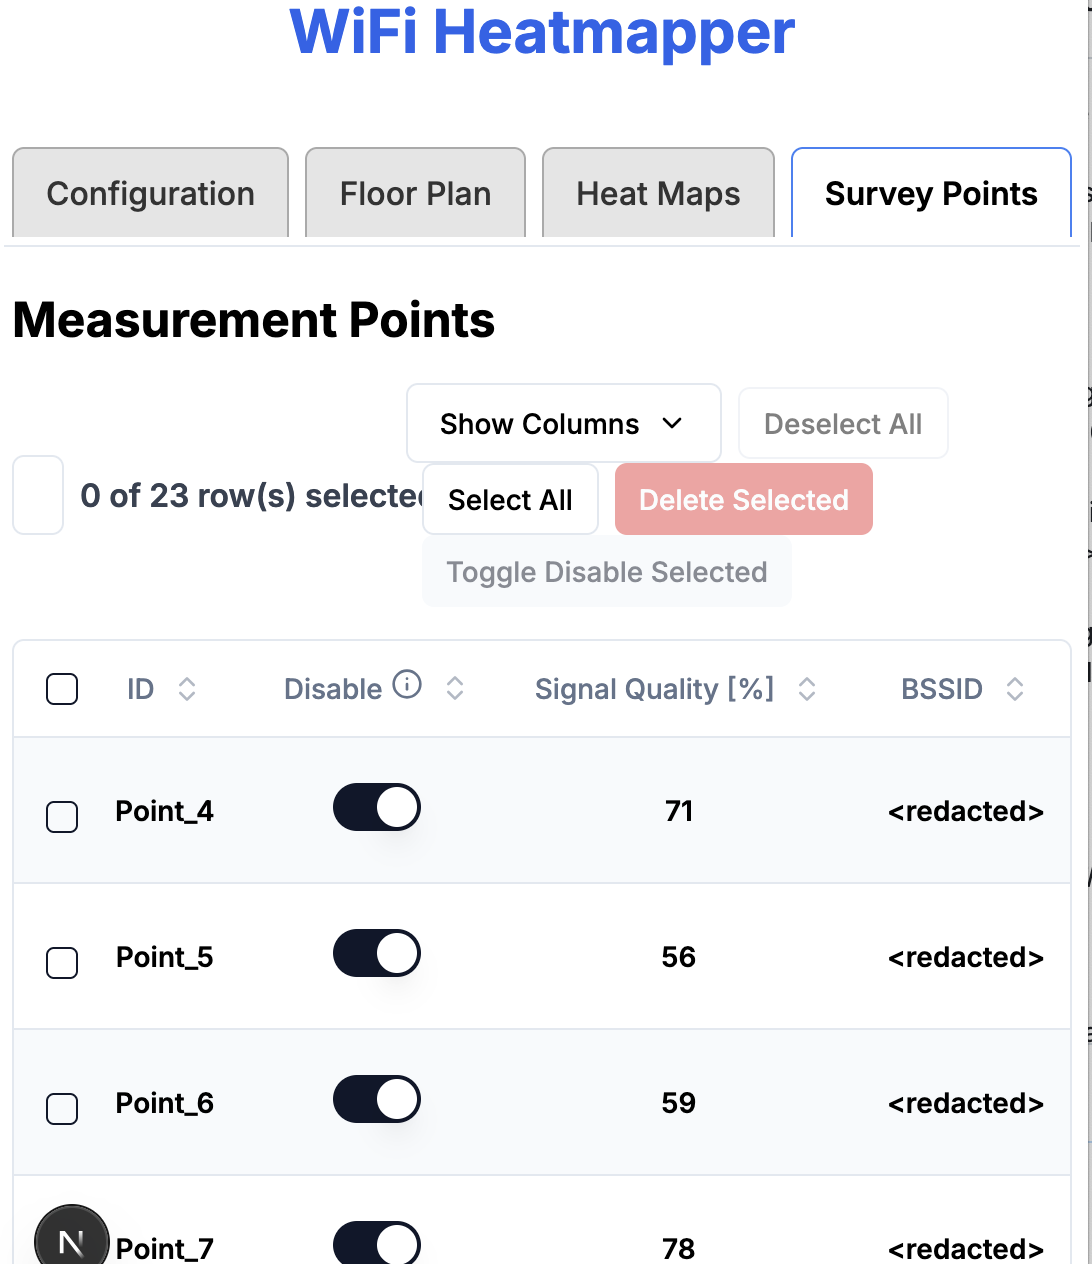
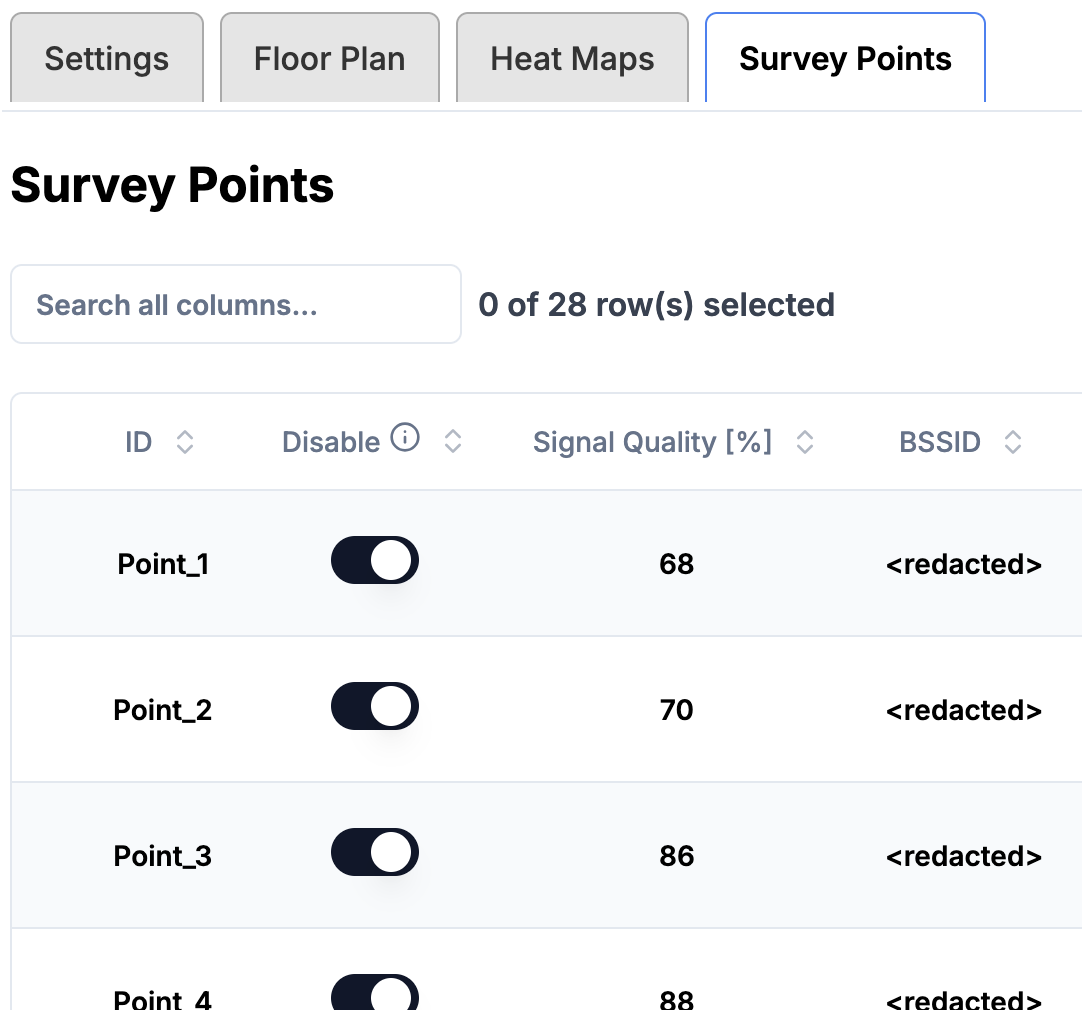
Final editorial pass over the entire project

diff --git a/src/components/PointsTable.tsx b/src/components/PointsTable.tsx
@@ -298,7 +298,7 @@ const SurveyPointsTable: React.FC<SurveyPointsTableProps> = ({
 
   return (
     <div className="space-y-4">
-      <div className="text-2xl font-bold mt-4">Measurement Points</div>
+      <div className="text-2xl font-bold mt-4">Survey Points</div>
       <div className="flex justify-between items-center">
         <div className="flex items-center space-x-2">
           <Input

diff --git a/src/components/TabPanel.tsx b/src/components/TabPanel.tsx
@@ -21,7 +21,7 @@ export default function TabPanel() {
             value="tab1"
             className="px-4 py-2 border-b-2 border-transparent hover:border-gray-400 focus:border-blue-500"
           >
-            Configuration
+            Settings
           </Tabs.Trigger>
           <Tabs.Trigger
             value="tab2"

diff --git a/README.md b/README.md
@@ -3,8 +3,11 @@
 **wifi-heatmapper** displays heat maps of both
 Wi-Fi signal strength and
 the results of network throughput (speed) tests.
-This is useful for optimizing access point placement,
-or knowing where to add new mesh devices or extenders.
+Use it to find out if your wi-fi signal is actually weak,
+or if there is something else wrong with your network.
+If there is a signal-strength problem, you can use the
+heat map to optimize access point placement,
+or to add new mesh devices or extenders.
 
 **wifi-heatmapper** runs on Windows, macOS, and Linux.
 
@@ -14,7 +17,16 @@ to show areas of strong signal
 Signal levels fade to turquoise, then to blue
 (lowest acceptable).
 Yellow and red colors indicate poor signal levels.
-The screen shot below shows a sample heat map:
+
+The screen shot below is a sample heat map.
+It was created by measuring about two dozen points around the house,
+especially locations where people actually use a computer. 
+The heat map shows that the signal levels throughout the house
+are acceptable &mdash; mostly green, turquoise, and blue.
+The areas of yellow or red are at the edges, or on a stairway
+where no measurement was taken (the large yellow area in the middle).
+(Don't have a floor plan for your home?
+See the [FAQ](docs/FAQ.md).)
 
 ![heatmap example](docs/images/HeatmapPane.png)
 
@@ -25,54 +37,59 @@ There are more details about the operation of **wifi-heatmapper** at:
 * [FAQ](docs/FAQ.md)
 * [To-Do](docs/To-Do.md)
 
-## Usage
+## Overview of using wifi-heatmapper
 
-**Install wifi-heatmapper** on a laptop computer since you use it
-to measure signal strength at various locations.
+1. **Install wifi-heatmapper.**
+You'll want it installed on a laptop so you can move it around
+and measure signal strength at various locations.
 See [Installing and Running](#installing-and-running)
 below for details.
 Then browse to
 [http://localhost:3000](http://localhost:3000).
 
-**Settings pane:** To get started, use the default floor plan
+2. **Settings pane:** To get started, use the default floor plan
 (EmptyFloorPlan.png)
 and provide a sudo password for macOS or Linux.
 Leave the other settings at their default.
 No throughput tests are made when the iperf3 server is set
 to "localhost".
 
-**Switch to the Floor Plan tab.**
-You'll see the built-in Empty Floor Plan or your imported image.
+3. **Switch to the Floor Plan tab.**
+You'll see the built-in Empty Floor Plan or your uploaded image.
 
-**Start a measurement** by clicking the floor plan at a point
-that reflects the laptop's location.
+4. **Start a measurement** by clicking the floor plan at a point
+that reflects your laptop's location.
 **wifi-heatmapper** measures the WiFi signal strength and
 (optionally) the throughput at that point.
-The floor plan displays a dot colored by its signal stength.
+When the measurement is complete, the floor plan displays
+a dot colored by its signal stength.
 Click the dot to get more information.
 
-**Move to other locations** and make further measuements.
+5. **Move to other locations** and make further measuements.
 Make at least one measurement per room.
 Multiple measurements per room provide more fine-grained data.
 
-**Click the Heatmap tab** to see the resulting heat map.
+6. **Click the Heatmap tab** to see the resulting heat map.
 Areas with strong signal will be green,
 lower signal levels will follow the
-Green -> Tuquoise -> Blue -> Yellow - Red transition.
+Green -> Tuquoise -> Blue -> Yellow -> Red transition.
 Adjust the **Radius** slider until the spots grow together.
 Go back to the Floor Plan tab to make more measuements if needed.
 
-**Click the Survey Points tab** to see all the survey points,
+7. **Click the Survey Points tab** to see all the survey points,
 with details of the measurements taken.
 Remove errant points using this tab.
 
 ## Installing and Running
 
-Install **wifi-heatmapper** on a laptop device
-so you can move from place to place.
+**wifi-heatmapper** requires a recent Javascript environment
+(tested on Node 23).
+Install it on a laptop device so you can move from place to place.
 To install the software:
 
-1. Pull the repo, install the `npm` dependencies, and run the project:
+1. Pull the repo, install the `npm` dependencies,
+   and run the project.
+   To do this, run these commands from a terminal:
 
    ```bash
    git clone https://github.com/hnykda/wifi-heatmapper.git
@@ -88,22 +105,25 @@ To install the software:
 _Note: Installing the `iperf3` client and server are optional.
 This makes the initial installation straightforward:
 simply perform the two steps above.
-But it misses out on the ability to make throughput tests._
+But you miss out on the ability to make throughput tests._
 
 To take advantage of `iperf3` throughput (speed) tests:
 
 1. Install `iperf3` on your laptop.
+   Follow instructions on the internet for your OS.
+   _Note: there are other speed tests with a name like `iperf...`
+   They are similar, but incompatible.
+   Be sure to install `iperf3`_
 2. Install `iperf3` on another computer.
-   We call this the "iperf3 server".
+   This will be the "iperf3 server".
    This could be a desktop or another laptop,
-   or even a Raspberry Pi 4 or 5 on the local network.
+   or even a Raspberry Pi 4 or 5.
 3. Start the "iperf3 server" on the other computer with
    `iperf3 -s`
-4. Optional checks: Run these on the laptop:
+4. Optional checks: Run these tests on the laptop:
    * Check the local iperf3 binary with `iperf3 --version`
-   * Check the iperf3 server with `iperf3 -c address-of-iperf3-server`
-
-
+   * Check the connection to the iperf3 server
+      with `iperf3 -c address-of-iperf3-server`
 
 ## Usage with Docker
 
@@ -134,16 +154,17 @@ use `-v` options if you want to save db + floorplanpicture to the _datas_ folder
 ## History
 
 This project is a WiFi heatmapper solution for macOS/Windows/Linux, inspired by [python-wifi-survey-heatmap](https://github.com/jantman/python-wifi-survey-heatmap).
-@hnykda wanted to create a heatmap of my WiFi coverage, but the original project didn't work because he is running on Mac.
-He also wanted just something that might be slightly easier to use, i.e. via browser.
+@hnykda wanted to create a heatmap of his WiFi coverage, but the original project didn't work because he is running on Mac.
+He also wanted something that might be slightly easier to use, i.e. using a browser.
 @richb-hanover refactored the GUI to its current four-tab appearance.
 
 ## Screen Recording
 
 This is a video recording of an earlier version of `wifi-heatmapper`.
-The basic operation is the same, but looks different now:
-all the user interface was in one page,
-and it used a different color scheme: red is "hot" (strong signal),
+The basic operation is the same, but looks different now.
+In this version, all the user interface was in one page,
+and it used a different color scheme:
+red indicates "hot" (strong signal),
 blue was "cool" (weak).
 
 [![showcase recording](https://img.youtube.com/vi/pXlm-eWaJCs/0.jpg)](https://www.youtube.com/watch?v=pXlm-eWaJCs)

diff --git a/docs/Theory_of_Operation.md b/docs/Theory_of_Operation.md
@@ -10,7 +10,8 @@ that show where signal/throughput are high and low.
 
 ## Platform-Specific Wifi Commands
 
-This utility relies on parsing outputs of the following CLI commands.
+**wifi-heatmapper** parses the outputs of the following CLI commands
+to get the measurements of the Wi-Fi strength and other parameters.
 
 | Platform | Commands          | Notes                                                                                                                                                    |
 | -------- | ----------------- | -------------------------------------------------------------------------------------------------------------------------------------------------------- |
@@ -61,7 +62,7 @@ but have not yet been removed from the code base:
 ## Routes in the Next app
 
 * The _api/media/route.ts_ file listens for a GET request
-  and returns the list of files in the _public/media_ directory
+  and returns the list of files in the _public/media_ directory.
   A POST request is treated as a file upload to be saved
   in that directory.
 * The _api/events/route.ts_ file listens for a GET request,
@@ -82,8 +83,8 @@ but have not yet been removed from the code base:
 
 ## How the Toast progress notifier works
 
-When an empty space is clicked on the `Floorplan`,
-it triggers the measurement process
+When an empty space is clicked, the `Floorplan` component
+triggers the measurement process
 and displays the progress of the measurements.
 Those updates are provided by Server-Sent Events (see below),
 which is an astonishingly complicated process:
@@ -100,12 +101,12 @@ which is an astonishingly complicated process:
   All server-side clients can import and use that function.
 * When `NewToast` receives a "ready" message from the server,
   it calls back to the `Floorplan` with `toastIsOpen()`
-* That triggers the measurement process that uses `sendToClient()`
+* That triggers the actual measurement process that uses `sendToClient()`
   to send updates to `NewToast`.
-* When the user clicks the Cancel button of `NewToast`,
-  it sends a POST to _/api/start-task?action=stop_.
+* Clicking the Cancel button of `NewToast`
+  sends a POST to _/api/start-task?action=stop_.
   This calls global `setCancelFlag(true)`.
-  The measurement process notices this and halts the process
+  The server's measurement process notices this and halts the process
   with appropriate status updates.
   
 ## Server-Sent Events - sseMessage
@@ -116,18 +117,18 @@ SSEs have these fields:
 
 ```javascript
 export type SSEMessageType = {
-  type: string;//info, ready, update, done
+  type: string;//ready, update, done, info
   header: string;
   status: string; 
 };
 ```
 
-* `info` is a general message - ignored by NewToast
 * `ready` signals NewToast to tell its parent to
   begin the measurements
-* `update` simply updates the header and status
+* `update` simply provides updated header and status messages
 * `done` updates the header and status, then starts a timer to
   remove the NewToast after a number of seconds.
+* `info` is a general message - ignored by NewToast
 
 ## RSSI and Signal Strength
 
@@ -140,7 +141,7 @@ At the end of each measurement, the code saves both values.
 
 NB: In practice, any value below -75 dBM (~ 40%) is too low
 to be useful, and the color displayed in the heatmap
-should be discouraging (yellow, red).
+is correspondingly discouraging (yellow, red).
 
 Arguably, the zero point of the percentage scale should be
 -90dBm (not -100dBm) since the noise floor
@@ -176,7 +177,7 @@ Consequently, there is no obvious algorithm for retriving values
 from the `netsh...` output. 
 
 At server startup, the _lib/localization.ts_ code reads a set of
-_en.json_, _it.json_ files to build a reverse lookup table of
+_xxxx.json_ files to build a reverse lookup table of
 (localized string) to the corresponding WifiNetwork property
 (or null).
  
@@ -196,6 +197,8 @@ To create a localization file for your Window's system's language:
 * Paste the output of the `netsh wlan...` into the bottom of the window.
 * Comment out those lines (use `//` at the start of the line),
   and remove the prior output
+* Add a comment indicating the version of Windows (Win10, Win11)
+  and the system language
 * In the JSON structure at the top of the file, replace the localized
   phrases (on the right) with the corresponding phrase from the new
   `netsh wlan...` output.
@@ -208,12 +211,12 @@ To create a localization file for your Window's system's language:
 ## Radius Calculations
 
 The `h337.create()` function takes a `radius` parameter that
-determines "how much space" the value of each survey point
-should occupy.
+determines "how much space" each survey point should occupy.
 Reasonable values seem to be between 100 and 500,
 and can be set by the slider in the Heatmaps pane.
 
-The _lib/radiusCalculations.ts_ file implements several algorithms suggested by AI as experiments.
+The _lib/radiusCalculations.ts_ file implements several AI suggestions
+for algorithms as experiments.
 The code currently uses the `r2` function that
 computes the radius using something like the density of
 points within the bounding box.
@@ -225,3 +228,16 @@ _Note:_ The Android [NetSpot](https://www.netspotapp.com/netspot-wifi-analyzer-f
 app incorporates a "distance" measurement for the background image.
 That may give a further hint about the size of the survey points.
 
+## Use of localStorage()
+
+**wifi-heatmapper** saves all the information associated with a particular
+floor plan image in localStorage() in an object named
+`wifi-heatmapper-floorplanImageName`.
+The "current" floorplan image name is saved as a string in `wifi*heatmapper`.
+When the page is reloaded, the program retrieves that name, then loads the
+associated settings.
+
+The Settings pane allows the user to select from various floor plans
+that are saved in the _media_ folder on the server,
+and loads the saved settings when it is selected.
+(Uploading a new image creates a new `wifi-heatmapper...` object.)

diff --git a/docs/User_Interface.md b/docs/User_Interface.md
@@ -27,15 +27,17 @@ these settings do not normally need to be modified
 ## Floor Plan Pane
 
 Use this pane to collect the measurements.
-Click on a point in the image to make a measurement.
+Click on a point on the floor plan to make a measurement.
 Move the laptop to other locations and make additional measurements.
-Multiple measurements per room is a good strategy.
+A good strategy is to make multiple measurements per room.
 
-![Floo Plan](images/FloorplanPane.png)
+This image shows the survey points collected to produce the heat map below.
 
-## Heatmaps Pane
+![Floor Plan](images/FloorplanPane.png)
 
-The Heatmaps tab displays the heat map.
+## Heat Maps Pane
+
+The Heat Maps tab displays the heat map.
 The Radius slider controls the "radius" of the individual
 measurements.
 Adjust the slider so that the points merge in the heatmap.
@@ -46,6 +48,6 @@ Adjust the slider so that the points merge in the heatmap.
 
 The Survey Points pane displays information about
 all the points that have been collected.
-Use it to delete one or many points at one time.
+Enable or disable points, or delete one or many points at one time.
 
 ![Survey Points Pane](images/SurveyPointsPane.png)

diff --git a/docs/FAQ.md b/docs/FAQ.md
@@ -1,10 +1,21 @@
 # FAQ
 
-1. **Why do I see `<redacted>` or `000000000000` or similar instead of a SSID or address?**  
+1. **How can I create a floor plan for my home?**  
+If you have one, upload an existing floor plan for your home.
+Or just make a sketch on paper.
+Use your phone or laptop to photograph the image, then upload it.
+
+   Heat maps are inherently approximate, so the floor plan doesn't
+   need to be perfect or "to scale".
+   Just make it reasonably close, upload it, and
+   start clicking on the **Floor Plan** tab.
+
+2. **Why do I see `<redacted>` or `000000000000` or similar instead of a SSID or address?**  
 Apple appears to have changed the security mechanism in macOS 15 and later.
 Even with sudo access, the SSID and BSSID are no longer available.
 It appears that a macOS application now needs Location Access
 permissions to obtain this information.
+See the notes below for more information.
 
 ## Notes
 
